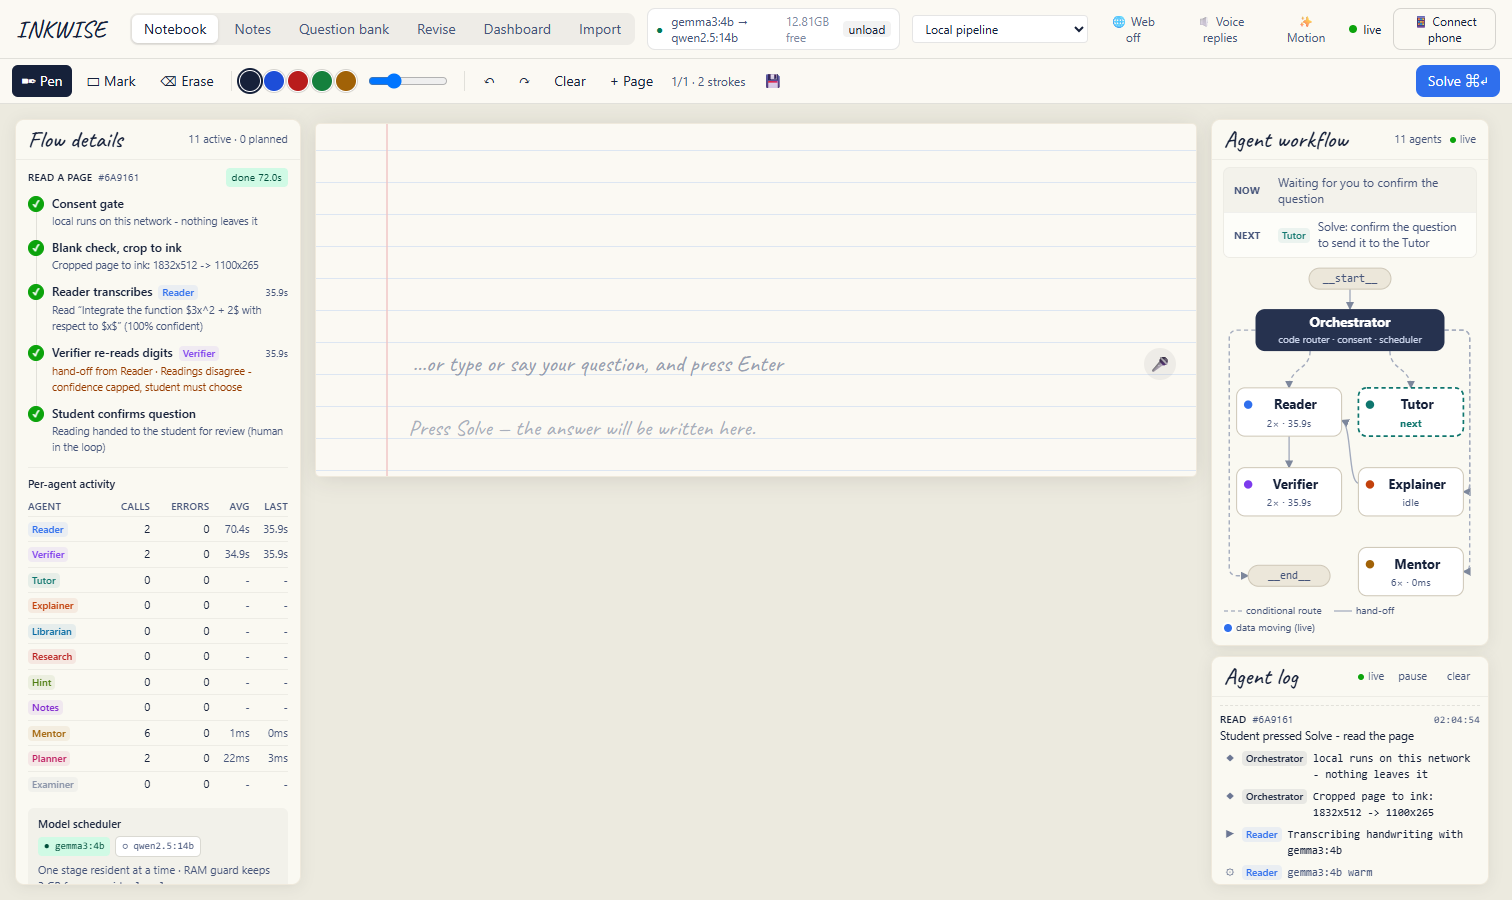
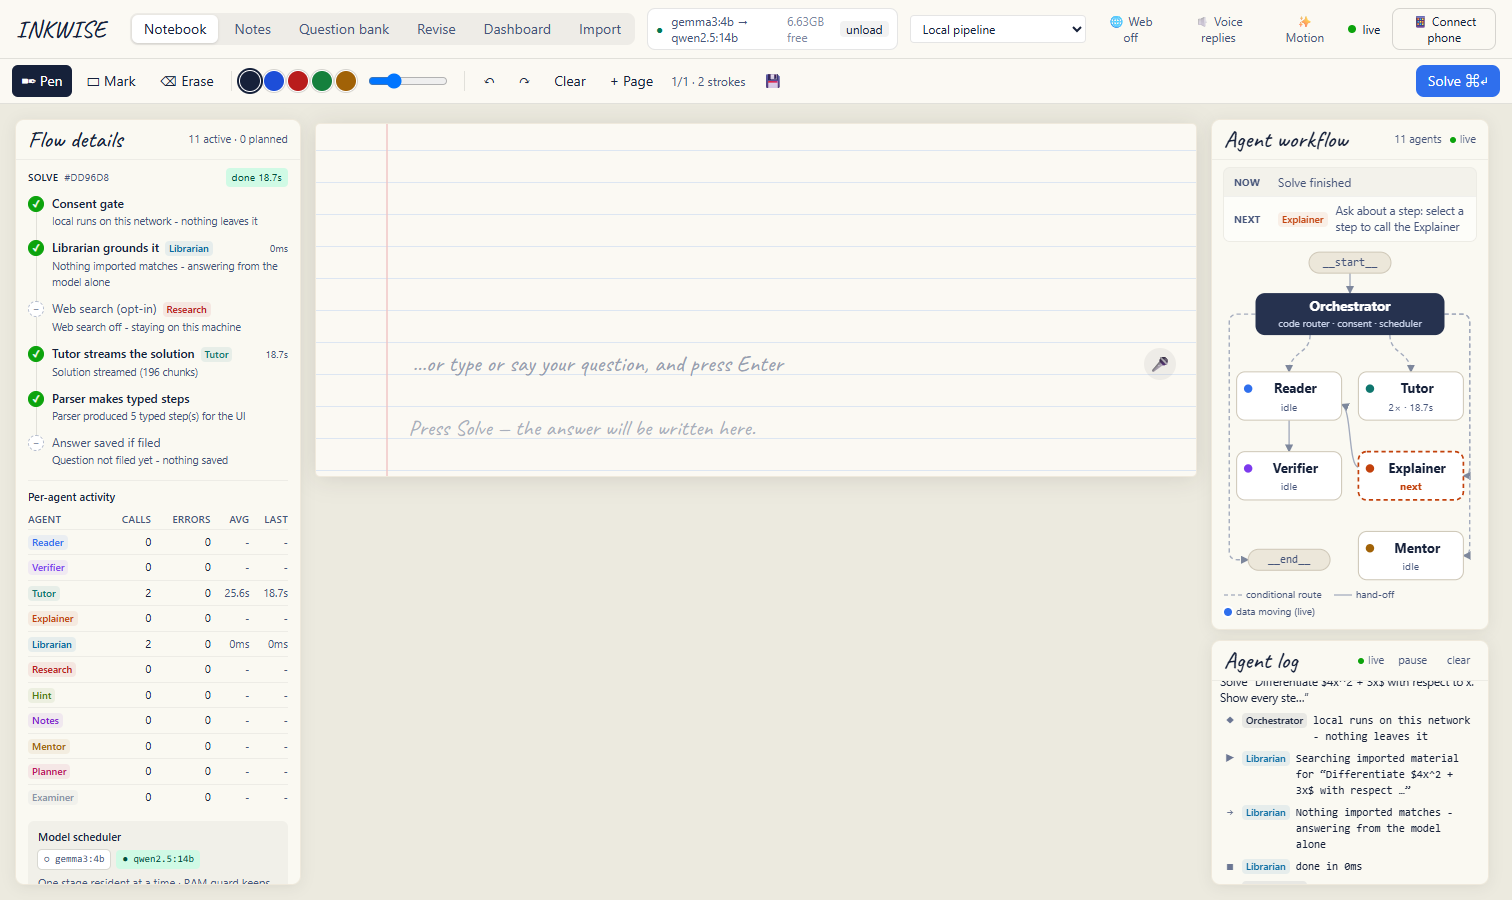
Answers in 19s instead of 60, by fixing what was actually slow
bench/where_time_goes.py separates the three costs that look identical from
the outside. On this machine, for one solve with qwen2.5:14b:

  loading the model into memory   ~15 s
  reading the prompt (prefill)    0.1 - 0.6 s
  writing the answer              10.3 tokens/s, so 30-40 s

Two things follow, and one of them is the opposite of what you would guess.

Shrinking the context window does nothing: prefill is half a second out of
fifty. Worse, num_ctx is a load-time parameter, so *varying* it between
request types forces a full 15 s reload each time it changes. It is now
documented as one value for every request, and left at 8192.

What was actually costing the 15 s wait was the model falling out of memory,
and the stage swap: a handwritten question read the page with the 4b, evicted
it, and reloaded the 14b to answer - 62 s measured, of which 30 s was loading.
So keep_alive goes from 10m to 60m, and stage eviction is skipped when either
model is already pinned to the CPU, because two models only compete for memory
if they are both on the GPU.

The rest is tokens. The block rules now forbid preamble, restating the
question and summing up, and the solve cap drops from 2048 to 1400 - the
answer gets shorter, not thinner. Same five steps, 343 characters.

Measured end to end through /api/ai/solve: 60 s before; 32 s cold and 18.7 s
warm after, with the first token arriving in 0.39 s instead of 20.
[…]

diff --git a/frontend/src/index.css b/frontend/src/index.css
@@ -188,18 +188,11 @@ html, body, #root {
   .edge-live, .node-live, .agent-dot-live { animation: none; }
 }
 
-/* Fullscreen on an integrated GPU.
-   In fullscreen the browser stops compositing the page in the usual way and
-   hands the display controller a single opaque surface to scan out directly.
-   It is faster, and on a chip that is simultaneously running a language model
-   it is where the picture breaks up - which is why this flickers fullscreen
-   and is steady in a window. Promoting the app to its own composited layer
-   keeps the normal path, at the cost of one texture. */
-html.is-fullscreen body > #root,
-html.is-fullscreen body > div:first-child {
-  transform: translateZ(0);
-  backface-visibility: hidden;
-}
+/* Nothing here for the fullscreen flicker on integrated graphics: promoting
+   the app to its own composited layer was tried and did not help. The cause
+   is below the browser - Chrome scans a fullscreen surface out directly
+   instead of compositing it - and the fix is `start.ps1 -Open`, which
+   launches Chrome with --disable-direct-composition. */
 
 /* Turned on from the top bar. The rails' looping SVG animations are the only
    thing on the page that repaints continuously; on integrated graphics that

diff --git a/frontend/src/App.jsx b/frontend/src/App.jsx
@@ -62,23 +62,6 @@ export default function App() {
     localStorage.setItem('inkwise.calm', calm ? '1' : '0')
   }, [calm])
 
-  // Fullscreen is a different presentation path in the browser, and on a
-  // laptop whose GPU is also running the model it is the one that breaks up.
-  // Marking it lets the stylesheet keep the page on the ordinary compositing
-  // path while it is fullscreen.
-  useEffect(() => {
-    const mark = () => document.documentElement.classList
-      .toggle('is-fullscreen', !!document.fullscreenElement
-        || window.matchMedia('(display-mode: fullscreen)').matches
-        || window.innerHeight === screen.height)
-    mark()
-    document.addEventListener('fullscreenchange', mark)
-    window.addEventListener('resize', mark)
-    return () => {
-      document.removeEventListener('fullscreenchange', mark)
-      window.removeEventListener('resize', mark)
-    }
-  }, [])
   const [tool, setTool] = useState('pen')
   const [color, setColor] = useState(PEN_COLORS[0])
   const [size, setSize] = useState(2.4)

diff --git a/bench/where_time_goes.py b/bench/where_time_goes.py
@@ -1,0 +1,115 @@
+"""Where do the seconds actually go?
+
+Before tuning anything, separate the three costs that look identical from the
+outside: loading the model into memory, reading the prompt (prefill), and
+writing the answer. They have completely different fixes, and guessing wrong
+is how you end up shortening answers to cure a loading problem.
+
+    .venv\\Scripts\\python.exe bench\\where_time_goes.py
+"""
+from __future__ import annotations
+
+import json
+import sys
+import time
+import urllib.request
+
+URL = "http://127.0.0.1:11434"
+QUESTION = "Differentiate 4x^2 + 3x with respect to x. Show every step."
+
+
+def post(path: str, body: dict, timeout=900):
+    req = urllib.request.Request(URL + path, data=json.dumps(body).encode(),
+                                 headers={"Content-Type": "application/json"})
+    return urllib.request.urlopen(req, timeout=timeout)
+
+
+def unload(model: str):
+    try:
+        post("/api/generate", {"model": model, "keep_alive": 0}, timeout=60).read()
+    except Exception:
+        pass
+    time.sleep(1.5)
+
+
+def run(model: str, num_ctx: int, num_predict: int, cold: bool, prompt=QUESTION):
+    if cold:
+        unload(model)
+    body = {"model": model, "stream": True, "keep_alive": "10m",
+            "messages": [{"role": "user", "content": prompt}],
+            "options": {"num_ctx": num_ctx, "num_predict": num_predict,
+                        "temperature": 0.3, "top_p": 0.95}}
+    t0 = time.perf_counter()
+    first = None
+    text = []
+    stats = {}
+    for raw in post("/api/chat", body):
+        line = raw.decode().strip()
+        if not line:
+            continue
+        d = json.loads(line)
+        piece = (d.get("message") or {}).get("content")
+        if piece:
+            if first is None:
+                first = time.perf_counter() - t0
+            text.append(piece)
+        if d.get("done"):
+            stats = d
+    total = time.perf_counter() - t0
+    ns = 1e9
+    load = stats.get("load_duration", 0) / ns
+    prefill = stats.get("prompt_eval_duration", 0) / ns
+    gen = stats.get("eval_duration", 0) / ns
+    out_tokens = stats.get("eval_count", 0)
+    return {
+        "total": round(total, 1), "ttft": round(first or 0, 1),
+        "load": round(load, 1), "prefill": round(prefill, 2),
+        "generate": round(gen, 1), "tokens": out_tokens,
+        "tok_s": round(out_tokens / gen, 1) if gen else 0,
+        "chars": len("".join(text)),
+    }
+
+
+def show(label, r):
+    print(f"{label:34s} total {r['total']:6.1f}s = load {r['load']:5.1f}s "
+          f"+ prefill {r['prefill']:5.2f}s + write {r['generate']:5.1f}s   "
+          f"({r['tokens']:4d} tokens at {r['tok_s']:4.1f}/s, ttft {r['ttft']:.1f}s)")
+
+
+def main() -> int:
+    try:
+        urllib.request.urlopen(URL + "/api/version", timeout=5).read()
+    except Exception:
+        print("Ollama is not running.")
+        return 2
+
+    print("Each row is one real request. 'load' is the model being read into\n"
+          "memory, 'prefill' is it reading the prompt, 'write' is it producing\n"
+          "the answer.\n")
+
+    show("14b cold, ctx 8192", run("qwen2.5:14b", 8192, 2048, cold=True))
+    show("14b warm, ctx 8192", run("qwen2.5:14b", 8192, 2048, cold=False))
+    show("14b warm, ctx 4096", run("qwen2.5:14b", 4096, 2048, cold=False))
+    show("14b cold, ctx 4096", run("qwen2.5:14b", 4096, 2048, cold=True))
+    show("14b warm, ctx 2048", run("qwen2.5:14b", 2048, 2048, cold=False))
+    show("14b warm, cap 600 tokens", run("qwen2.5:14b", 4096, 600, cold=False))
+    print()
+    show("4b  cold, ctx 4096", run("gemma3:4b", 4096, 2048, cold=True))
+    show("4b  warm, ctx 4096", run("gemma3:4b", 4096, 2048, cold=False))
+
+    print("\nSwapping stages (what a handwritten question costs):")
+    unload("qwen2.5:14b")
+    unload("gemma3:4b")
+    t0 = time.perf_counter()
+    run("gemma3:4b", 4096, 300, cold=False)
+    t1 = time.perf_counter()
+    unload("gemma3:4b")                      # what EXCLUSIVE_MODELS does
+    run("qwen2.5:14b", 4096, 2048, cold=False)
+    t2 = time.perf_counter()
+    print(f"  read the page with 4b: {t1 - t0:.1f}s, then evict it and load "
+          f"14b to answer: {t2 - t1:.1f}s  (total {t2 - t0:.1f}s)")
+    return 0
+
+
+if __name__ == "__main__":
+    raise SystemExit(main())

diff --git a/backend/app/config.py b/backend/app/config.py
@@ -32,10 +32,18 @@ TEXT_MODEL = os.getenv("INKWISE_TEXT_MODEL", "qwen2.5:14b")
 # Opt-in single-model mode: accurate, slow, memory-hungry.
 HEAVY_MODEL = os.getenv("INKWISE_HEAVY_MODEL", "gemma4:26b")
 OLLAMA_MODEL = TEXT_MODEL  # back-compat alias
+# Context size. Measured: reading the prompt costs 0.1-0.6s out of a ~50s
+# answer, so shrinking this buys nothing - and because num_ctx is a load-time
+# parameter, *changing* it between requests forces a full 15s reload. Keep it
+# one value for every request type.
 OLLAMA_NUM_CTX = int(os.getenv("INKWISE_NUM_CTX", "8192"))
 # gemma4 defaults thinking ON, which roughly triples latency. Off unless asked.
 OLLAMA_THINK = os.getenv("INKWISE_THINK", "0") == "1"
-OLLAMA_KEEP_ALIVE = os.getenv("INKWISE_KEEP_ALIVE", "10m")
+# How long a model stays in memory after a request. Loading the 14b takes
+# about 15 seconds on this machine, which is the whole of the wait before an
+# answer starts, so letting it fall out of memory between questions is the
+# most expensive setting in the file.
+OLLAMA_KEEP_ALIVE = os.getenv("INKWISE_KEEP_ALIVE", "60m")
 
 # RAM guard: refuse to load a model that would leave less than this free.
 MIN_FREE_RAM_GB = float(os.getenv("INKWISE_MIN_FREE_RAM_GB", "3.0"))

diff --git a/backend/app/ai/ollama_provider.py b/backend/app/ai/ollama_provider.py
@@ -186,6 +186,13 @@ class OllamaProvider:
         other = self.text_model if model == self.vision_model else self.vision_model
         if other == model:
             return
+        # Two models only fight over memory if they are both on the GPU. Once
+        # one of them has been moved to the CPU - because the driver could not
+        # run it, or because INKWISE_VISION_CPU says so - there is nothing to
+        # evict for, and evicting anyway costs a 15 second reload on every
+        # handwritten question.
+        if model in self._cpu_only or other in self._cpu_only:
+            return
         if other in await self._loaded():
             obs.emit("model.evict",
                      f"Evicting {other} so {model} can load (one stage at a time)",
@@ -504,7 +511,7 @@ class OllamaProvider:
                  question=question, subject_line=sl,
                  context_block=prompts.context_block(context),
                  session_block=prompts.session_block(session or []))}],
-            num_predict=2048, temp=0.3, think=False)
+            num_predict=1400, temp=0.3, think=False)
 
     def explain(self, question: str, answer: str, step: str,
                 ask: str, context: str = "",

diff --git a/backend/app/ai/prompts.py b/backend/app/ai/prompts.py
@@ -171,6 +171,11 @@ def bfs(graph, start):
   Inside @@CODE write the code exactly as it would be typed - real newlines,
   real indentation, no LaTeX at all.
 - Keep each step to one idea a student can follow.
+- Write the working, not an essay about the working. No preamble, no
+  restating the question, no "Let's", no summing up what you just did, no
+  congratulating the student. A step is a line of maths and the one sentence
+  that justifies it.
+- Do not repeat a formula you have already written out once.
 
 Diagrams: when the answer describes a structure, architecture, block diagram,
 process flow, cycle, pipeline, state transitions or hierarchy, draw it inside
